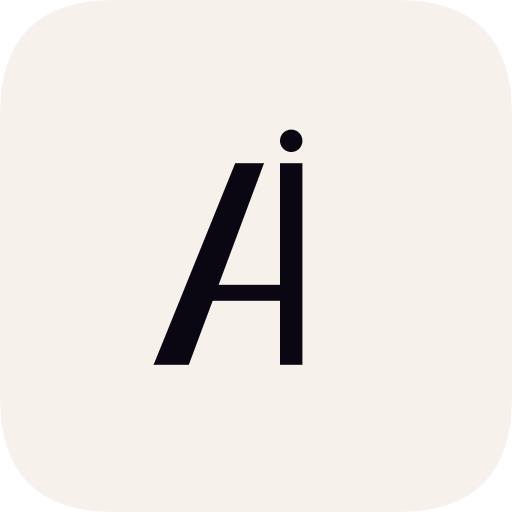
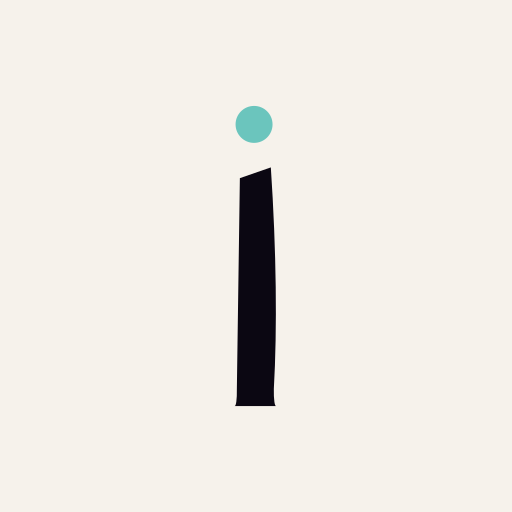
New alif mark across the site; Geist wordmark; split hero
Repoint the 48k-grain hero to the new alif (sampled from the swapped
mark-white.png), set the logotype in Geist, and split the desktop hero:
the mark breathes left-of-centre, the headline reads as a left-aligned
column on the right. Mobile keeps the stacked layout. Favicon, app-icon
and og image regenerated to the new mark.

Changed region(s): [[0.2812, 0.1875, 0.5938, 0.8125]]

diff --git a/styles.css b/styles.css
@@ -152,10 +152,10 @@ header.nav {
   padding: 24px clamp(20px, 5vw, 56px);
   background: linear-gradient(180deg, rgba(2,3,10,0.72) 0%, rgba(2,3,10,0.3) 62%, transparent 100%);
 }
-/* Aykiz logotype — Manrope, lowercase dotless ı, "Intelligence" tucked under the kız. The moon lives in the Ai mark, not the wordmark. */
+/* Aykiz logotype — Geist, lowercase dotless ı, "Intelligence" tucked under the kız. The moon lives in the alif mark, not the wordmark. */
 .brandmark { display: inline-flex; flex-direction: column; align-items: flex-end; line-height: 1; text-decoration: none; }
-.brandmark .bm-word { font-family: 'Manrope', -apple-system, BlinkMacSystemFont, sans-serif; font-weight: 700; letter-spacing: -0.03em; color: var(--moon); }
-.brandmark .bm-sub { font-family: 'Manrope', -apple-system, BlinkMacSystemFont, sans-serif; font-weight: 600; text-transform: uppercase; color: var(--moon-mute); letter-spacing: 0.14em; padding-left: 0.14em; }
+.brandmark .bm-word { font-family: 'Geist', -apple-system, BlinkMacSystemFont, sans-serif; font-weight: 600; letter-spacing: -0.03em; color: var(--moon); }
+.brandmark .bm-sub { font-family: 'Geist', -apple-system, BlinkMacSystemFont, sans-serif; font-weight: 500; text-transform: uppercase; color: var(--moon-mute); letter-spacing: 0.14em; padding-left: 0.14em; }
 .nav .brandmark .bm-word { font-size: 21px; text-shadow: 0 1px 12px rgba(2,3,10,0.9); }
 .nav .brandmark .bm-sub { font-size: 8px; margin-top: 4px; }
 .nav .links { display: flex; gap: 30px; }
@@ -201,6 +201,19 @@ header.nav {
 }
 @keyframes cue { 0%{transform:scaleY(0);transform-origin:top} 40%{transform:scaleY(1);transform-origin:top}
                  60%{transform:scaleY(1);transform-origin:bottom} 100%{transform:scaleY(0);transform-origin:bottom} }
+
+/* Desktop: split hero — alif mark breathes on the left, text reads as a left-aligned
+   column on the right, both vertically centred. Mobile keeps the stacked, centred layout. */
+@media (min-width: 900px) {
+  .hero {
+    justify-content: center; align-items: flex-end; text-align: left;
+    padding: 0 clamp(48px, 8vw, 150px) 0 0;
+  }
+  .hero .eyebrow { width: min(560px, 47vw); margin-bottom: 22px; }
+  .hero h1 { font-size: clamp(42px, 5.4vw, 78px); line-height: 1.0; width: min(560px, 47vw); }
+  .hero .lede { width: min(500px, 44vw); margin: 30px 0 0; }
+  .hero .scroll-cue { left: auto; right: clamp(48px, 8vw, 150px); transform: none; align-items: flex-start; }
+}
 
 .reveal { will-change: transform, opacity; }
 

diff --git a/main.js b/main.js
@@ -452,7 +452,11 @@ function fitMark(p) {
   const vW = vH * camera.aspect;
   const fit = Math.min(0.9, (0.82 * vW) / 5.4);
   points.scale.setScalar(fit);
-  points.position.y = 1.35 + p * 1.2;
+  // Desktop: the mark sits left-of-centre and vertically centred, leaving the right
+  // half for the headline. Narrow/portrait keeps it top-centre, stacked above the text.
+  const wide = camera.aspect > 1.05;
+  points.position.x = wide ? -0.24 * vW : 0;
+  points.position.y = (wide ? 0.15 : 1.35) + p * 1.2;
   uniforms.uScale.value = fit;
   uniforms.uOffset.value.set(points.position.x, points.position.y);
 }
